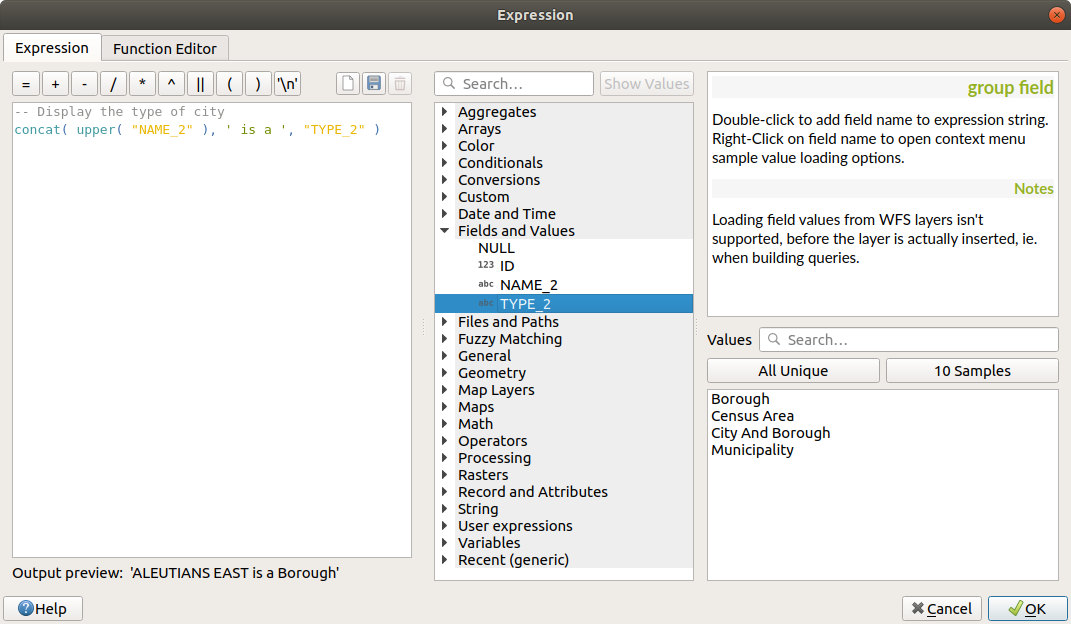
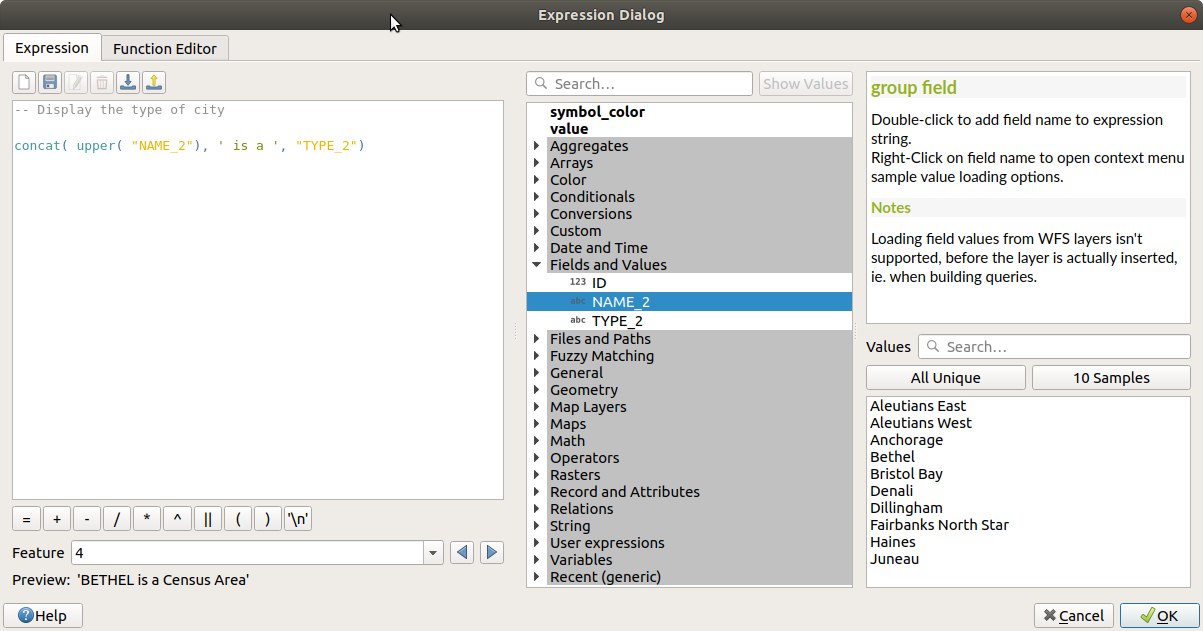
Add user expressions buttons to the corresponding group section

diff --git a/docs/user_manual/working_with_vector/expression.rst b/docs/user_manual/working_with_vector/expression.rst
@@ -141,15 +141,10 @@ using functions, layer's fields and values. It contains following widgets:
           -- using || allows regions without airports to be skipped
       )
 
-* Above the expression editor, you have on the left a set of basic operators
-  to help you build the expression. On the right, you can:
+* Above the expression editor, a set of tools helps you:
 
   * |fileNew|:sup:`Clear the expression editor`
-  * |fileSave|:sup:`Add the current expression to user expressions`: store the
-    expression in the user profile (:file:`<userprofile>/QGIS/QGIS3.ini` file)
-    and display it under the :ref:`User expressions group <user_expressions_functions>`.
-    A label and a help text can be added for easy identification.
-  * |deleteSelected| :sup:`Remove selected expression from user expressions`
+  * create and manage :ref:`user expressions <user_expressions_functions>`
 
 * Under the expression editor, an :guilabel:`Output preview` displays the result
   of the expression evaluated on the first feature of the layer. In case of
@@ -1128,14 +1123,27 @@ User Expressions |312|
 ----------------------
 
 This group contains the expressions saved as **user expressions** using
-the |fileSave| :sup:`Add the current expression to the user expressions` button.
-It is meant for important expressions you want to have
-quick access to. They are saved under the user profile and available in all
-expression dialogs inside all projects of the current user profile.
+the |fileSave| :sup:`Add current expression to user expressions` button
+above the expression editor frame.
+It is meant for important expressions you want to have quick access to.
+They are saved under the user profile (:file:`<userprofile>/QGIS/QGIS3.ini`
+file) and available in all expression dialogs inside all projects of the
+current user profile.
 
-They can be deleted using the |deleteSelected| :sup:`Remove selected expression
-from user expressions` button.
+A set of tools available above the expression editor frame helps you manage
+the user expressions:
 
+* |fileSave|:sup:`Add the current expression to user expressions`: store the
+  expression in the user profile. A label and a help text can be added for
+  easy identification.
+* |symbologyEdit| :sup:`Edit selected expression from user expressions`,
+  as well as their help and label
+* |deleteSelected| :sup:`Remove selected expression from user expressions`
+* |sharingImport| :sup:`Import user expressions` from a ``.json`` file
+  into the active user profile folder
+* |sharingExport| :sup:`Export user expressions` as a ``.json`` file;
+  all the user expressions in the user profile :file:`QGIS3.ini` file are
+  shared
 
 .. _variables_functions:
 
@@ -1429,9 +1437,15 @@ Further information about creating Python code can be found in the
    :width: 1.5em
 .. |fileSave| image:: /static/common/mActionFileSave.png
    :width: 1.5em
+.. |sharingExport| image:: /static/common/mActionSharingExport.png
+   :width: 1.5em
+.. |sharingImport| image:: /static/common/mActionSharingImport.png
+   :width: 1.5em
 .. |signMinus| image:: /static/common/symbologyRemove.png
    :width: 1.5em
 .. |signPlus| image:: /static/common/symbologyAdd.png
    :width: 1.5em
 .. |start| image:: /static/common/mActionStart.png
+   :width: 1.5em
+.. |symbologyEdit| image:: /static/common/symbologyEdit.png
    :width: 1.5em

diff --git a/docs/documentation_guidelines/substitutions.rst b/docs/documentation_guidelines/substitutions.rst
@@ -405,6 +405,7 @@ Icon                                Substitution                            Icon
 |joinNotEditable|                   ``|joinNotEditable|``                   |joinedLayerNotEditable|       ``|joinedLayerNotEditable|``
 |joinHasNotUpsertOnEdit|            ``|joinHasNotUpsertOnEdit|``            |filterTableFields|            ``|filterTableFields|``
 |symbologyEdit|                     ``|symbologyEdit|``
+|sharingImport|                     ``|sharingImport|``                     |sharingExport|                ``|sharingExport|``
 ==================================  ======================================  =============================  ================================
 
 
@@ -1175,6 +1176,10 @@ Icon                            Substitution                        Icon        
 .. |setToCanvasScale| image:: /static/common/mActionSetToCanvasScale.png
    :width: 1.5em
 .. |settings| image:: /static/common/settings.png
+   :width: 1.5em
+.. |sharingExport| image:: /static/common/mActionSharingExport.png
+   :width: 1.5em
+.. |sharingImport| image:: /static/common/mActionSharingImport.png
    :width: 1.5em
 .. |showAllLayers| image:: /static/common/mActionShowAllLayers.png
    :width: 1.5em
